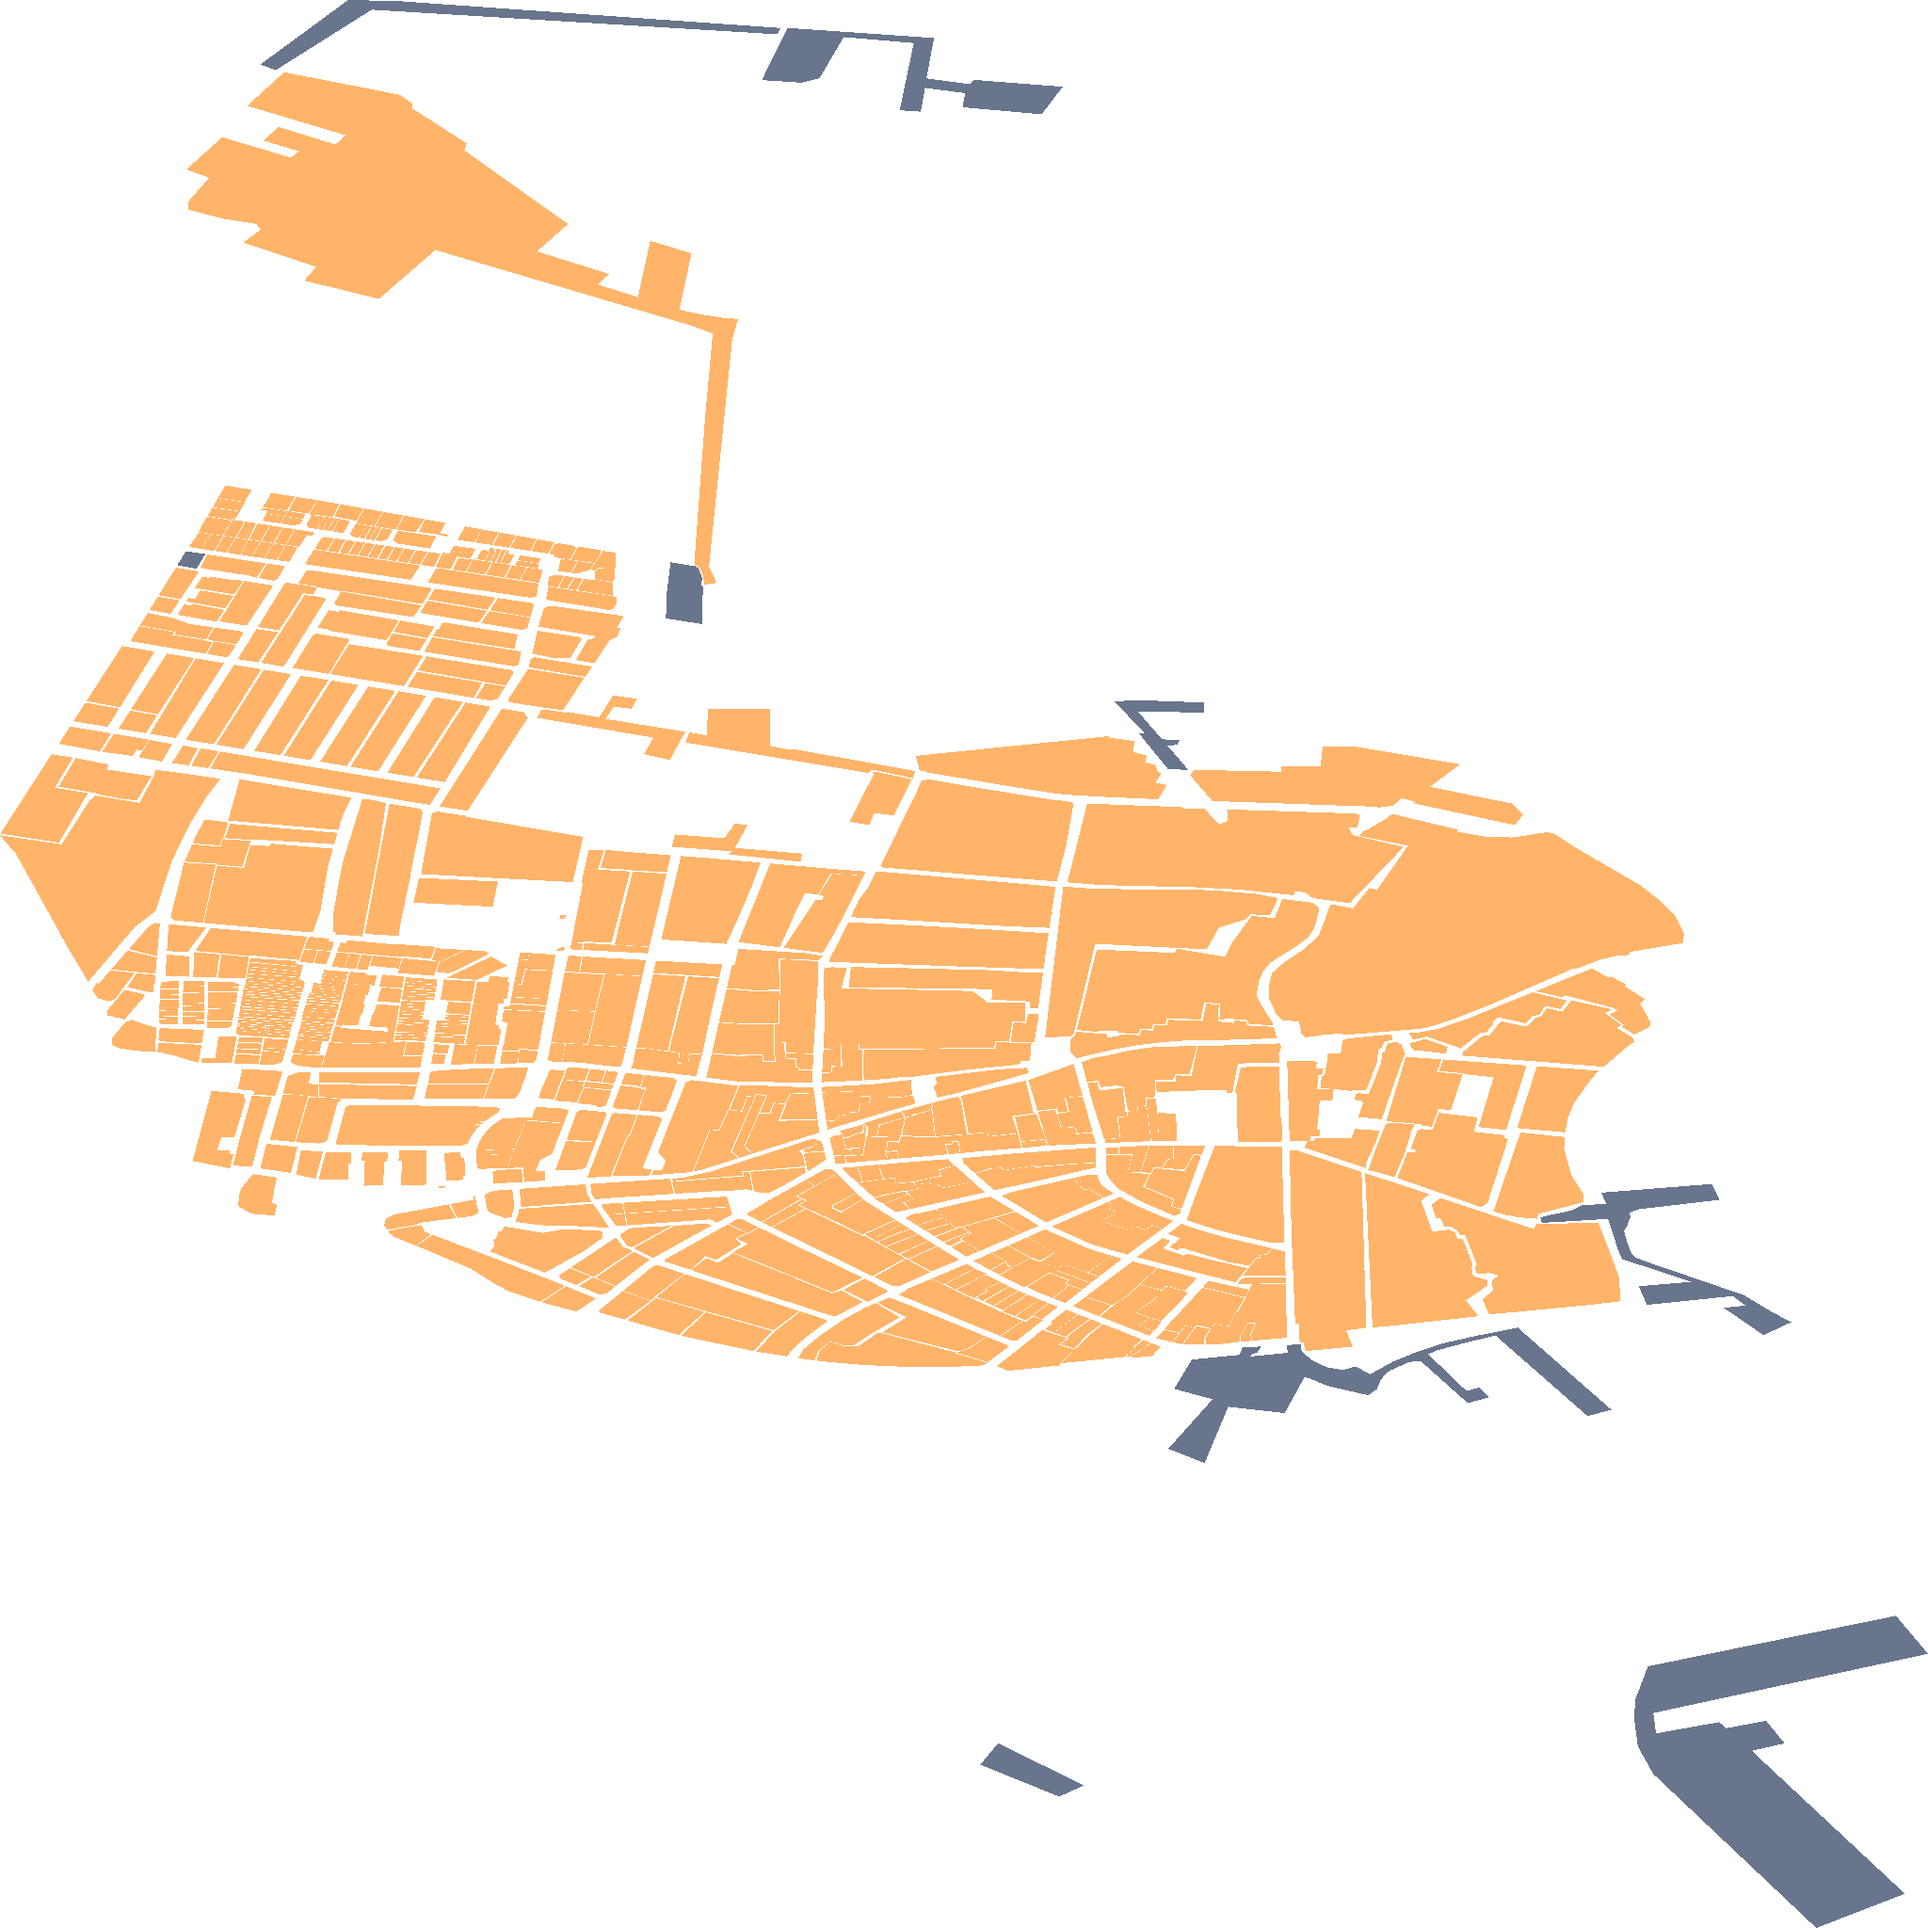
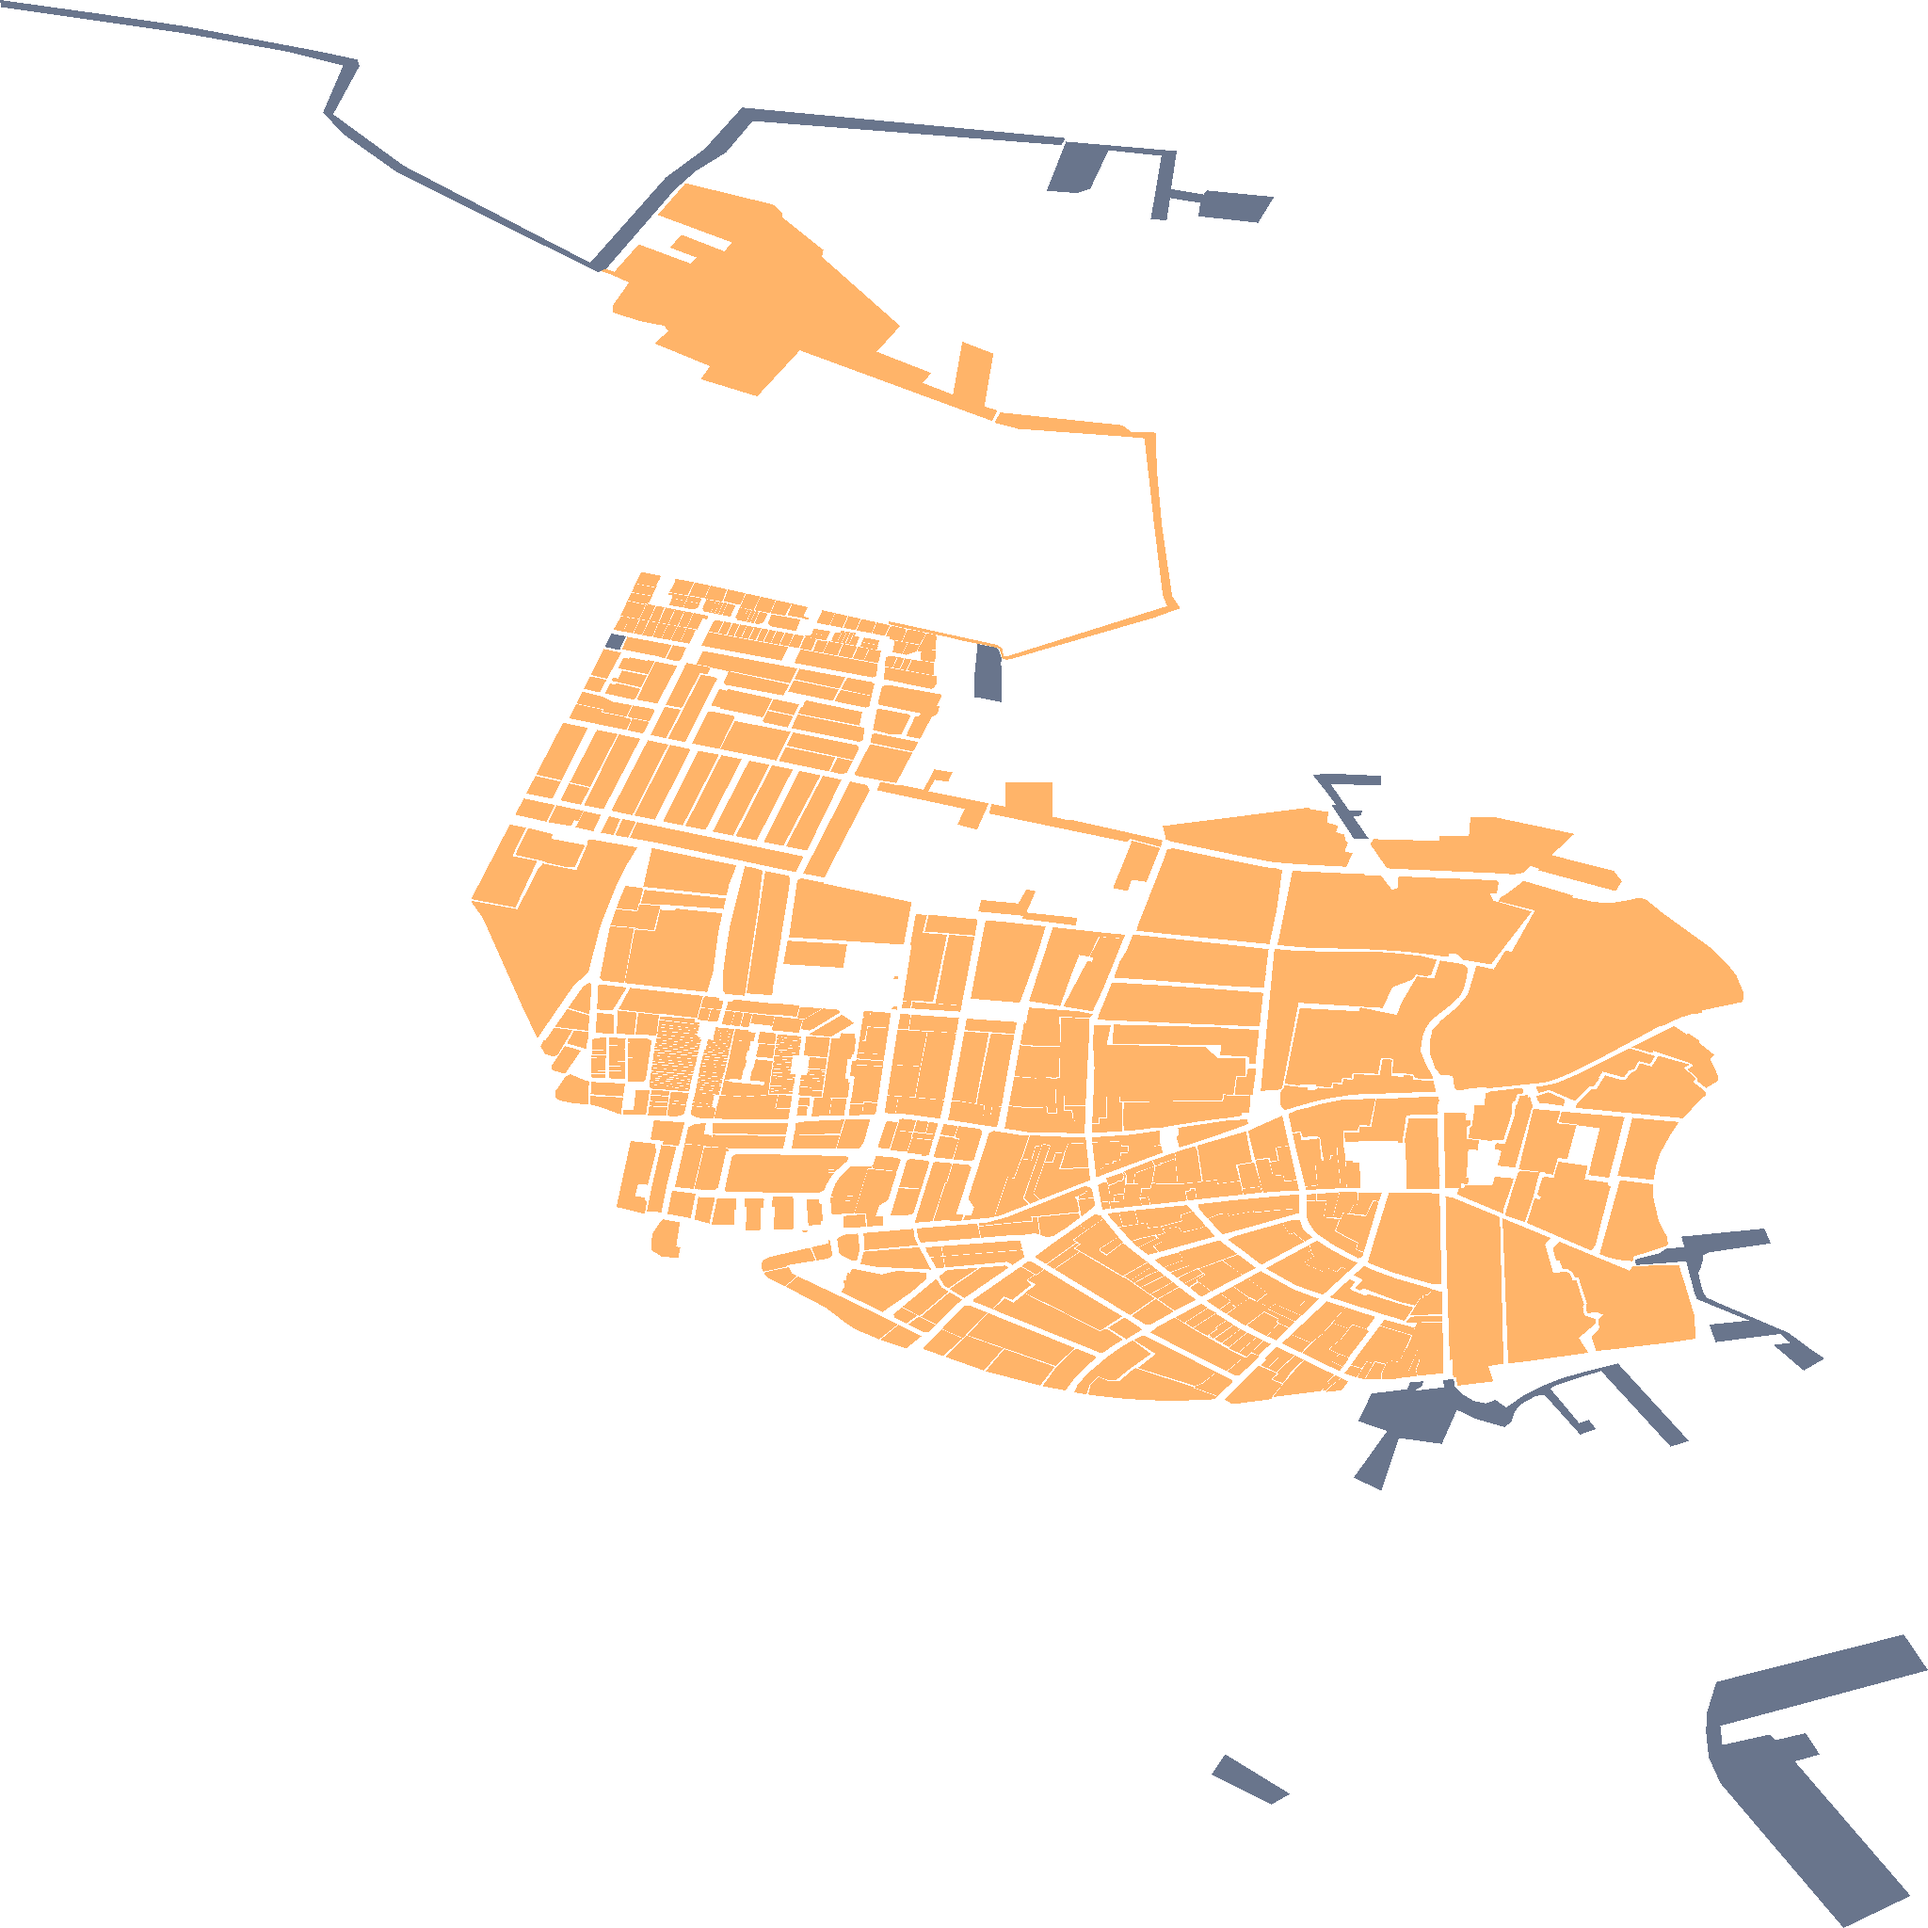
Karte p_512

diff --git a/p_512.html b/p_512.html
@@ -115,7 +115,7 @@
         <div><span style="display:inline-block;width:20px; height:10px; background:#FFC17D; margin-right:5px;"></span>Ausbauphase 3: Gefördertes Ausbaugebiet </div>
     </div>
     <script>
-    const bounds = [[49.377324842, 8.580022615], [49.411053687, 8.606275687]];
+    const bounds = [[49.377324842, 8.571539977], [49.413200531, 8.606275687]];
     const map = L.map('map', {zoomControl: false});
       map.fitBounds(bounds, {padding: [100, 100]});
        const maptiler = L.tileLayer('https://api.maptiler.com/maps/basic/{z}/{x}/{y}.png?key=hP74ooTG3ciBab5RShCg',
